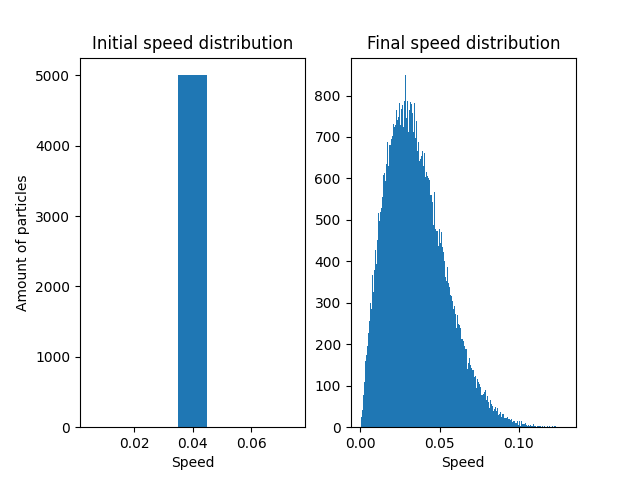
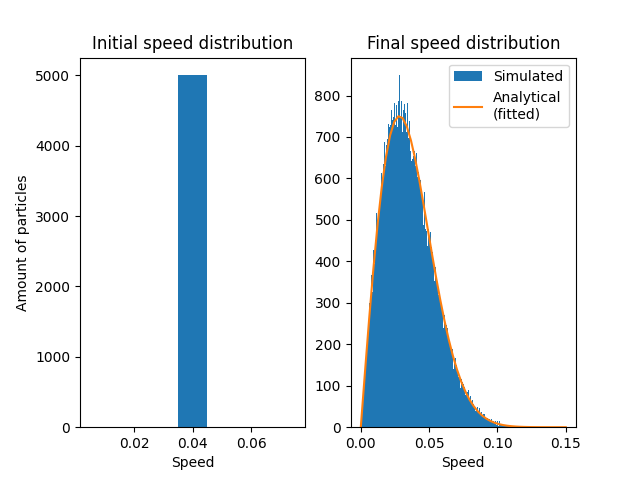
do more loops

diff --git a/6sem/numfys/_python/ex1.py b/6sem/numfys/_python/ex1.py
@@ -3,23 +3,24 @@ import matplotlib.pyplot as plt
 import json
 from pathlib import Path
 from time import time
+import numpy as np
 
 curdir = Path(__file__).parent
+edg = smumerix.EventDrivenGas.new_uniform_v(5000, 0.04, 0.003)
+m = edg.get_masses()[0]
 
-if True:
-    edg = smumerix.EventDrivenGas.new_uniform_v(5000, 0.04, 0.003)
-
+if False:
     initial_speed_dist = edg.get_speeds()
 
     with open(curdir / "initial_speed.json", "w") as file:
         json.dump(initial_speed_dist, file)
 
     tic = time()
-    edg.step_many(500_000)
+    edg.step_many(5_000_000)
 
     speeds = edg.get_speeds()
     for _ in range(10):
-        edg.step_many(10_000)
+        edg.step_many(500_000)
         speeds += edg.get_speeds()
     toc = time()
     print(f"Simulation took {toc - tic} seconds")
@@ -32,6 +33,14 @@ else:
     with open(curdir / "final_speed.json", "r") as file:
         speeds = json.load(file)
 
+
+def analytic(v: np.ndarray):
+    kT = 0.0008
+    return m * v / kT * np.exp(-m * v**2 / (2 * kT))
+
+
+v = np.linspace(0, 0.15)
+
 fig, (ax1, ax2) = plt.subplots(1, 2)
 
 ax1.hist(initial_speed_dist, bins=[n * 0.01 + 0.005 for n in range(0, 8)])
@@ -39,9 +48,11 @@ ax1.set_title("Initial speed distribution")
 ax1.set_xlabel("Speed")
 ax1.set_ylabel("Amount of particles")
 
-ax2.hist(speeds, 200)
+ax2.hist(speeds, 200, label="Simulated")
+ax2.plot(v, analytic(v) * 37, label="Analytical\n(fitted)")
 ax2.set_title("Final speed distribution")
 ax2.set_xlabel("Speed")
+ax2.legend()
 
 fig.savefig(curdir / "speed_dist_5000p_500000steps.png")
 

diff --git a/6sem/numfys/smumerix/src/ex1.rs b/6sem/numfys/smumerix/src/ex1.rs
@@ -69,6 +69,10 @@ impl PyEventDrivenGas {
         self.lib_edg.get_speeds()
     }
 
+    fn get_masses(&self) -> Vec<f64> {
+        self.lib_edg.particles.iter().map(|p| p.m).collect()
+    }
+
     fn main(&self) -> PyResult<()> {
         println!("Hello from ex1");
         Ok(())

diff --git a/6sem/numfys/_python/report_task-1/report.md b/6sem/numfys/_python/report_task-1/report.md
@@ -1,0 +1,5 @@
+# Report
+
+Running took ~90 seconds for 500_000 collisions of 5_000 particles. To collect more data i did 10_000 more steps 10 times and collected the speeds per step. That makes a total of 55_000 sampled speeds. This might not be independent enough data...
+
+Running with 5_000_000 collisions and 5_000 particles took ~1420 seconds or about 24 minutes. To collect more data i did 500_000 more steps 10 times and collected the speeds per step.
